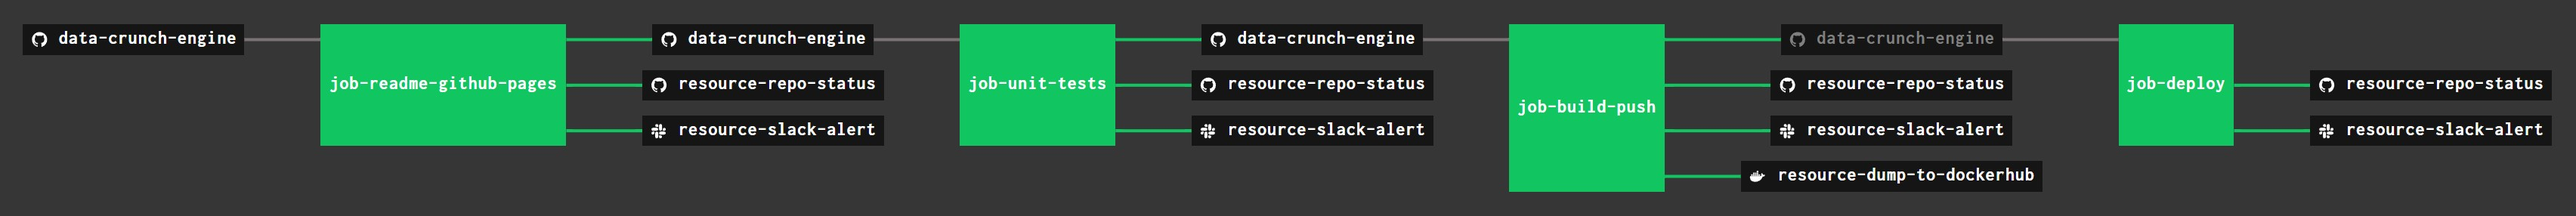
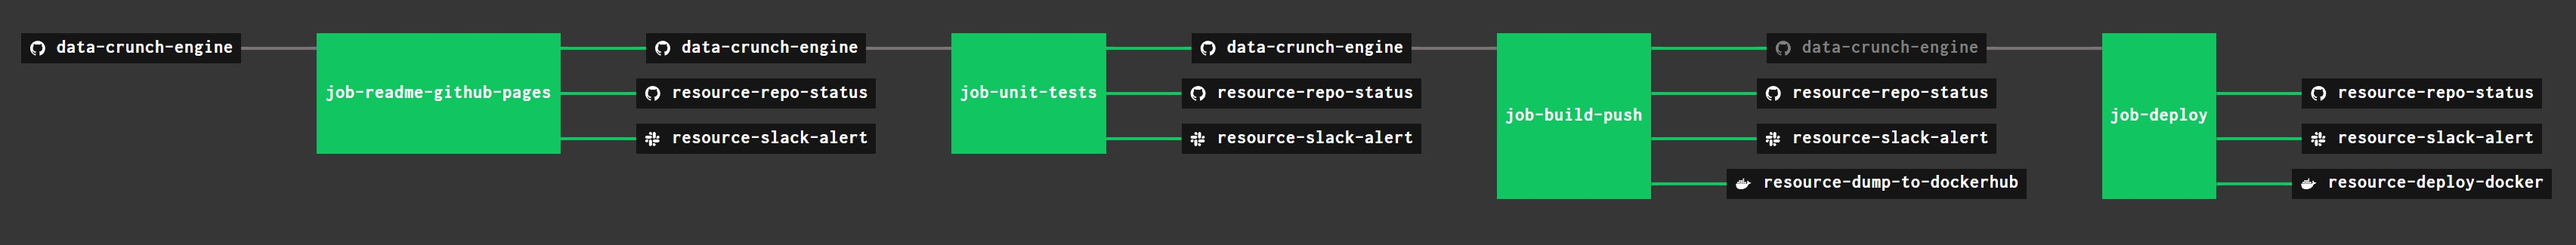
updated concourse ci README and added a ci pipeline pic

diff --git a/ci-README.md b/ci-README.md
@@ -47,6 +47,9 @@ The concourse `resources types` are,
 * `resource-dump-to-dockerhub` uses a resource type
   [docker-image](https://hub.docker.com/r/concourse/docker-image-resource/)
   to PUSH a docker image to dockerhub.
+* `resource-deploy-docker` uses a resource type
+  [docker-image](https://hub.docker.com/r/jeffdecola/concourse-deploy-docker-resource/)
+  to DEPLOY a docker image to docker.
 * `resource-slack-alert` uses a resource type
   [docker image](https://hub.docker.com/r/cfcommunity/slack-notification-resource)
   that will notify slack on your progress
